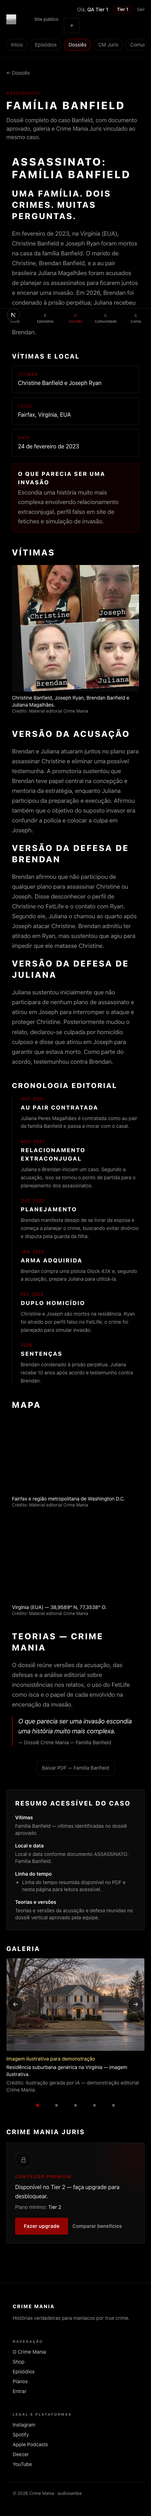
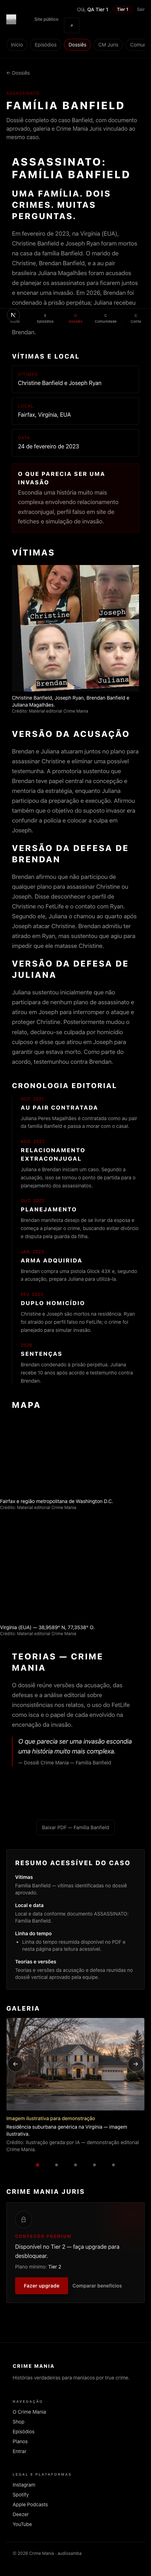
Fix Banfield map crops and v6 reader layout (no fig-mapa wide).
Tight fig-mapa-main to 908×465 before timeline divider; drop fig-mapa from document; show main+inset on all breakpoints with mobile full-bleed and desktop two-column grid.

Changed region(s): [[0.0302, 0.0312, 0.9372, 0.5619], [0.0302, 0.6244, 0.9674, 0.999]]

diff --git a/src/components/dossier/SemanticDossierReader.tsx b/src/components/dossier/SemanticDossierReader.tsx
@@ -1,10 +1,14 @@
 "use client";
 
 import { useEffect, useState } from "react";
-import type { DossierDocumentPublic } from "@/lib/dossier/document-types";
+import type { DocumentBlock, DossierDocumentPublic } from "@/lib/dossier/document-types";
 import { DocumentBlockView } from "@/components/dossier/DocumentBlockView";
 
 type LoadState = "loading" | "ready" | "blocked" | "error" | "processing";
+
+function sortedBlocks(blocks: DocumentBlock[]) {
+  return blocks.slice().sort((a, b) => a.order - b.order);
+}
 
 export function SemanticDossierReader({ slug }: { slug: string }) {
   const [doc, setDoc] = useState<DossierDocumentPublic | null>(null);
@@ -95,7 +99,7 @@ export function SemanticDossierReader({ slug }: { slug: string }) {
   if (!doc) return null;
 
   return (
-    <div className="dossier-html-reader mx-auto max-w-3xl space-y-10 px-4 md:max-w-[42rem] md:px-0 lg:max-w-[46rem]">
+    <div className="dossier-html-reader mx-auto max-w-3xl space-y-10 px-4 pb-28 [scroll-padding-bottom:7rem] md:max-w-[42rem] md:px-0 lg:max-w-[52rem]">
       {doc.meta.extractionWarnings.length > 0 ? (
         <ul className="rounded border border-amber-500/30 bg-amber-950/20 p-3 text-sm text-amber-100/90">
           {doc.meta.extractionWarnings.map((w) => (
@@ -106,21 +110,54 @@ export function SemanticDossierReader({ slug }: { slug: string }) {
       {doc.sections
         .slice()
         .sort((a, b) => a.order - b.order)
-        .map((section) => (
-          <section key={section.id} className="space-y-5" aria-labelledby={`sec-${section.id}`}>
-            {section.title ? (
-              <h2 id={`sec-${section.id}`} className="sr-only">
-                {section.title}
-              </h2>
-            ) : null}
-            {section.blocks
-              .slice()
-              .sort((a, b) => a.order - b.order)
-              .map((block) => (
+        .map((section) => {
+          const blocks = sortedBlocks(section.blocks);
+          const isMapSection = section.id === "mapa";
+
+          if (isMapSection) {
+            const prose = blocks.filter((b) => b.type !== "figure");
+            const figures = blocks.filter((b) => b.type === "figure");
+            return (
+              <section
+                key={section.id}
+                className="space-y-5"
+                aria-labelledby={`sec-${section.id}`}
+              >
+                {section.title ? (
+                  <h2 id={`sec-${section.id}`} className="sr-only">
+                    {section.title}
+                  </h2>
+                ) : null}
+                {prose.map((block) => (
+                  <DocumentBlockView key={block.id} slug={slug} block={block} />
+                ))}
+                <div className="grid grid-cols-1 gap-6 lg:grid-cols-2 lg:items-start">
+                  {figures.map((block) => (
+                    <DocumentBlockView
+                      key={block.id}
+                      slug={slug}
+                      block={block}
+                      mapPanelLayout
+                    />
+                  ))}
+                </div>
+              </section>
+            );
+          }
+
+          return (
+            <section key={section.id} className="space-y-5" aria-labelledby={`sec-${section.id}`}>
+              {section.title ? (
+                <h2 id={`sec-${section.id}`} className="sr-only">
+                  {section.title}
+                </h2>
+              ) : null}
+              {blocks.map((block) => (
                 <DocumentBlockView key={block.id} slug={slug} block={block} />
               ))}
-          </section>
-        ))}
+            </section>
+          );
+        })}
     </div>
   );
 }

diff --git a/scripts/test-banfield-html-figures.ts b/scripts/test-banfield-html-figures.ts
@@ -12,14 +12,12 @@ const assetsDir = path.join(
   "assets",
 );
 
-/** fig-mapa defeituoso anterior: 1440×287, crop da faixa d03 (resumo + «02. MAPA»). */
-const BAD_MAPA_DIMENSIONS = { width: 1440, height: 287 };
-
-const MOBILE_MAP_MIN_HEIGHT_AT_352 = 180;
-const MOBILE_VIEWPORT_WIDTH = 352;
+const MOBILE_MAP_MIN_HEIGHT_AT_358 = 180;
+/** Largura útil ~358px com bleed -mx-4 @390 viewport */
+const MOBILE_CONTENT_WIDTH = 358;
 
 async function testFigureAssets() {
-  for (const id of ["fig-vitimas", "fig-mapa-main", "fig-mapa-inset", "fig-mapa"]) {
+  for (const id of ["fig-vitimas", "fig-mapa-main", "fig-mapa-inset"]) {
     const p = path.join(assetsDir, `${id}.webp`);
     assert.ok(fs.existsSync(p), `${id}.webp deve existir`);
   }
@@ -27,51 +25,30 @@ async function testFigureAssets() {
   const vitimasPath = path.join(assetsDir, "fig-vitimas.webp");
   const mapaMainPath = path.join(assetsDir, "fig-mapa-main.webp");
   const mapaInsetPath = path.join(assetsDir, "fig-mapa-inset.webp");
-  const mapaPath = path.join(assetsDir, "fig-mapa.webp");
 
   const vitimas = await sharp(vitimasPath).metadata();
   const mapaMain = await sharp(mapaMainPath).metadata();
   const mapaInset = await sharp(mapaInsetPath).metadata();
-  const mapa = await sharp(mapaPath).metadata();
   const vw = vitimas.width ?? 0;
   const vh = vitimas.height ?? 0;
   const mmw = mapaMain.width ?? 0;
   const mmh = mapaMain.height ?? 0;
   const miw = mapaInset.width ?? 0;
   const mih = mapaInset.height ?? 0;
-  const mw = mapa.width ?? 0;
-  const mh = mapa.height ?? 0;
 
   assert.ok(vw >= 400 && vw <= 430, `fig-vitimas width ${vw}`);
   assert.ok(vh >= 395 && vh <= 425, `fig-vitimas height ${vh}`);
-  const vAspect = vw / vh;
-  assert.ok(vAspect >= 0.95 && vAspect <= 1.1, `fig-vitimas aspect ${vAspect}`);
 
-  const mainAspect = mmw / mmh;
-  const mainRenderedH = MOBILE_VIEWPORT_WIDTH / mainAspect;
+  assert.ok(mmw >= 880 && mmw <= 930, `fig-mapa-main width ${mmw}`);
+  assert.ok(mmh >= 450 && mmh <= 480, `fig-mapa-main height ${mmh}`);
+  const mainRenderedH = MOBILE_CONTENT_WIDTH / (mmw / mmh);
   assert.ok(
-    mainRenderedH >= MOBILE_MAP_MIN_HEIGHT_AT_352 - 0.5,
-    `fig-mapa-main rendered height @352px = ${mainRenderedH.toFixed(1)} (need ≥${MOBILE_MAP_MIN_HEIGHT_AT_352})`,
+    mainRenderedH >= MOBILE_MAP_MIN_HEIGHT_AT_358 - 0.5,
+    `fig-mapa-main rendered height @${MOBILE_CONTENT_WIDTH}px = ${mainRenderedH.toFixed(1)} (need ≥${MOBILE_MAP_MIN_HEIGHT_AT_358})`,
   );
-  assert.ok(mainAspect <= 352 / MOBILE_MAP_MIN_HEIGHT_AT_352 + 0.02, `fig-mapa-main aspect ${mainAspect}`);
 
   assert.ok(miw >= 650 && miw <= 780, `fig-mapa-inset width ${miw}`);
   assert.ok(mih >= 400 && mih <= 490, `fig-mapa-inset height ${mih}`);
-
-  assert.ok(mw >= 1380, `fig-mapa width ${mw}`);
-  assert.ok(mh >= 250 && mh <= 320, `fig-mapa height ${mh}`);
-  const mAspect = mw / mh;
-  assert.ok(mAspect >= 4 && mAspect <= 8, `fig-mapa aspect ${mAspect}`);
-  assert.ok(mAspect < 9, "fig-mapa não deve ser faixa extrema (>9:1)");
-
-  assert.ok(
-    mw !== BAD_MAPA_DIMENSIONS.width || mh !== BAD_MAPA_DIMENSIONS.height,
-    "fig-mapa ainda tem dimensões exatas do asset defeituoso 1440×287",
-  );
-  assert.ok(
-    mw >= 1380 || mw > BAD_MAPA_DIMENSIONS.width,
-    "fig-mapa deve ser composição wide trimada, não faixa defeituosa 1440×287",
-  );
 }
 
 async function main() {

diff --git a/src/components/dossier/DocumentFigureBlock.tsx b/src/components/dossier/DocumentFigureBlock.tsx
@@ -13,7 +13,7 @@ export function DocumentFigureBlock({
   caption,
   credit,
   portrait,
-  showWhen,
+  mapPanelLayout,
 }: {
   slug: string;
   assetId: string;
@@ -21,14 +21,8 @@ export function DocumentFigureBlock({
   caption?: string;
   credit?: string;
   portrait?: boolean;
-  showWhen?: "mobile-only" | "desktop-only";
+  mapPanelLayout?: boolean;
 }) {
-  const visibility =
-    showWhen === "mobile-only"
-      ? "lg:hidden"
-      : showWhen === "desktop-only"
-        ? "hidden lg:block"
-        : "";
   const mapPanel = assetId.startsWith("fig-mapa");
   const [open, setOpen] = useState(false);
   const close = useCallback(() => setOpen(false), []);
@@ -46,10 +40,15 @@ export function DocumentFigureBlock({
     };
   }, [open, close]);
 
+  const bleed =
+    mapPanelLayout && mapPanel
+      ? "relative left-1/2 w-screen max-w-[100vw] -translate-x-1/2 lg:left-auto lg:w-full lg:max-w-none lg:translate-x-0"
+      : "";
+
   return (
     <>
       <figure
-        className={`mx-auto w-full max-w-[75rem] ${visibility}`}
+        className={`mx-auto w-full ${mapPanelLayout ? "max-w-none" : "max-w-[75rem]"} ${bleed}`}
         data-dossier-figure={assetId}
       >
         <button
@@ -91,13 +90,13 @@ export function DocumentFigureBlock({
           </div>
           <div
             className={`min-h-0 flex-1 ${
-              mapPanel ? "overflow-auto overscroll-contain px-1 pb-4" : "overflow-hidden px-2"
+              mapPanel ? "overflow-auto overscroll-contain px-2 pb-6" : "overflow-hidden px-2"
             }`}
           >
             <div
               className={
                 mapPanel
-                  ? "mx-auto flex min-h-full w-full max-w-[min(100vw,960px)] items-start justify-center"
+                  ? "mx-auto w-full max-w-[min(100vw,960px)]"
                   : "flex h-full min-h-[50vh] items-center justify-center"
               }
             >

diff --git a/src/components/dossier/DocumentBlockView.tsx b/src/components/dossier/DocumentBlockView.tsx
@@ -1,7 +1,15 @@
 import type { DocumentBlock } from "@/lib/dossier/document-types";
 import { DocumentFigureBlock } from "@/components/dossier/DocumentFigureBlock";
 
-export function DocumentBlockView({ slug, block }: { slug: string; block: DocumentBlock }) {
+export function DocumentBlockView({
+  slug,
+  block,
+  mapPanelLayout,
+}: {
+  slug: string;
+  block: DocumentBlock;
+  mapPanelLayout?: boolean;
+}) {
   switch (block.type) {
     case "heading": {
       const Tag = block.level === 1 ? "h2" : block.level === 2 ? "h3" : "h4";
@@ -134,7 +142,7 @@ export function DocumentBlockView({ slug, block }: { slug: string; block: Docume
           caption={"caption" in block ? block.caption : undefined}
           credit={block.credit}
           portrait={portrait}
-          showWhen={block.type === "figure" ? block.showWhen : undefined}
+          mapPanelLayout={mapPanelLayout}
         />
       );
     }

diff --git a/src/lib/dossier/processing-config.ts b/src/lib/dossier/processing-config.ts
@@ -365,8 +365,8 @@ export const BANFIELD_HTML_FIGURE_CROPS: HtmlFigureCrop[] = [
     xStart: 0.02,
     xEnd: 0.58,
     yStart: 0.405,
-    /** Full Fairfax/DC panel height (~465px @1620w source); no letterbox padding */
-    yEnd: 0.59,
+    /** Painel Fairfax/DC apenas — termina antes da linha / «03. LINHA DO TEMPO» (~908×465) */
+    yEnd: 0.566,
   },
   {
     assetId: "fig-mapa-inset",
@@ -374,14 +374,6 @@ export const BANFIELD_HTML_FIGURE_CROPS: HtmlFigureCrop[] = [
     xEnd: 0.985,
     yStart: 0.36,
     yEnd: 0.525,
-  },
-  {
-    assetId: "fig-mapa",
-    xStart: 0.009,
-    xEnd: 0.992,
-    yStart: 0.38,
-    yEnd: 0.482,
-    trimBorder: true,
   },
 ];
 

diff --git a/scripts/dossier-bootstrap-banfield-document.ts b/scripts/dossier-bootstrap-banfield-document.ts
@@ -30,11 +30,6 @@ const ASSETS: { id: string; localRel: string; alt: string }[] = [
     localRel: "private/dossiers/documents/familia-banfield/assets/fig-mapa-inset.webp",
     alt: "Inset de Virgínia e coordenadas de Fairfax.",
   },
-  {
-    id: "fig-mapa",
-    localRel: "private/dossiers/documents/familia-banfield/assets/fig-mapa.webp",
-    alt: "Mapa de Fairfax e região metropolitana de Washington D.C.",
-  },
 ];
 
 function loadDocument(): DossierDocument {

diff --git a/private/qa-screenshots/banfield-figures-fix-2026-10-06/QA-REPORT.md b/private/qa-screenshots/banfield-figures-fix-2026-10-06/QA-REPORT.md
@@ -5,7 +5,6 @@
 - `asset-verify-fig-vitimas.png` — grade 2×2 (414×410).
 - `asset-verify-fig-mapa-main.png` — painel Fairfax/DC (908×465).
 - `asset-verify-fig-mapa-inset.png` — inset Virgínia + coordenadas (705×476).
-- `asset-verify-fig-mapa.png` — composição wide desktop-only (1582×275).
 - `ASSET-MANIFEST.json` — dimensões e SHA-256 dos `.webp`.
 
 ```json
@@ -19,10 +18,10 @@
   },
   "fig-mapa-main": {
     "width": 908,
-    "height": 534,
-    "aspect": 1.7,
-    "bytes": 76272,
[1 lines of base64/hex data omitted]
+    "height": 465,
+    "aspect": 1.953,
+    "bytes": 73242,
[1 lines of base64/hex data omitted]
   },
   "fig-mapa-inset": {
     "width": 705,
@@ -30,22 +29,15 @@
     "aspect": 1.481,
     "bytes": 33206,
[1 lines of base64/hex data omitted]
-  },
-  "fig-mapa": {
-    "width": 1410,
-    "height": 263,
-    "aspect": 5.361,
-    "bytes": 65516,
[1 lines of base64/hex data omitted]
   }
 }
 ```
 
-## Documento HTML (v5)
+## Documento HTML (v6)
 
 - Figura `fig-vitimas` na seção **Vítimas** (`sections[].id === "vitimas"`).
-- `fig-mapa-main` + `fig-mapa-inset` na seção **Mapa** (mobile/tablet, `lg:hidden`); `fig-mapa` wide em desktop (`lg+`).
-- Bootstrap: `npm run dossier:bootstrap-banfield-html` → Blob `v5` + Postgres `published`.
+- `fig-mapa-main` + `fig-mapa-inset` na seção **Mapa** em todos os breakpoints (grid 1 col mobile, 2 cols desktop); sem `fig-mapa` wide.
+- Bootstrap: `npm run dossier:bootstrap-banfield-html` → Blob `v6` + Postgres `published`.
 
 ## Automated tests
 
@@ -67,9 +59,9 @@ Capturas após `document ready` e `naturalWidth > 0` em `fig-vitimas`, `fig-mapa
 | free login | PASS | 200 |
 | free document 403 | PASS | 403 |
 | free gallery 403 | PASS | 403 |
-| tier1 document 200 v4 | PASS | 200 v=5 |
-| document fig-vitimas in seção vitimas | PASS | figures=4 |
-| document map main/inset in seção mapa | PASS | [{"sectionId":"mapa","assetId":"fig-mapa-main"},{"sectionId":"mapa","assetId":"fig-mapa-inset"},{"sectionId":"mapa","assetId":"fig-mapa"}] |
+| tier1 document 200 v4 | PASS | 200 v=6 |
+| document fig-vitimas in seção vitimas | PASS | figures=3 |
+| document map main/inset in seção mapa | PASS | [{"sectionId":"mapa","assetId":"fig-mapa-main"},{"sectionId":"mapa","assetId":"fig-mapa-inset"}] |
 | tier1 asset fig-vitimas 200 | PASS | 200 |
 | tier1 asset fig-mapa-main 200 | PASS | 200 |
 | tier1 asset fig-mapa-inset 200 | PASS | 200 |
@@ -77,10 +69,10 @@ Capturas após `document ready` e `naturalWidth > 0` em `fig-vitimas`, `fig-mapa
 | tier2 document 200 | PASS | 200 |
 | tier2 gallery 5 items | PASS | 200 n=5 |
 | reader mostra fig-vitimas @390 | PASS | naturalWidth=414 |
-| reader mostra fig-mapa-main @390 | PASS | img h=189.4px |
+| reader mostra fig-mapa-main @390 | PASS | img h=199.7px |
 | reader mostra fig-mapa-inset @390 | PASS | naturalWidth=705 |
-| fig-mapa-main img height @390 ≥180px | PASS | img w×h=322.0×189.4 |
-| lightbox mapa img ≥180px h @390 | PASS | {"width":382,"height":224.65625} |
+| fig-mapa-main img height @390 ≥180px | PASS | img w×h=390.0×199.7 |
+| lightbox mapa img ≥180px h @390 | PASS | {"width":374,"height":191.515625} |
 | reader @1280 sem loading | PASS | |
 | npm test:banfield-html-figures | PASS | |
 | npm run build | PASS | |
@@ -88,7 +80,7 @@ Capturas após `document ready` e `naturalWidth > 0` em `fig-vitimas`, `fig-mapa
 ## Preview deploy (não produção)
 
 - Base URL: http://localhost:3021
-- Commit: `1442a2c` on branch `hotfix/banfield-figures-2026-10-06`
+- Commit: `afec939` on branch `hotfix/banfield-figures-2026-10-06`
 
 ## Produção
 
